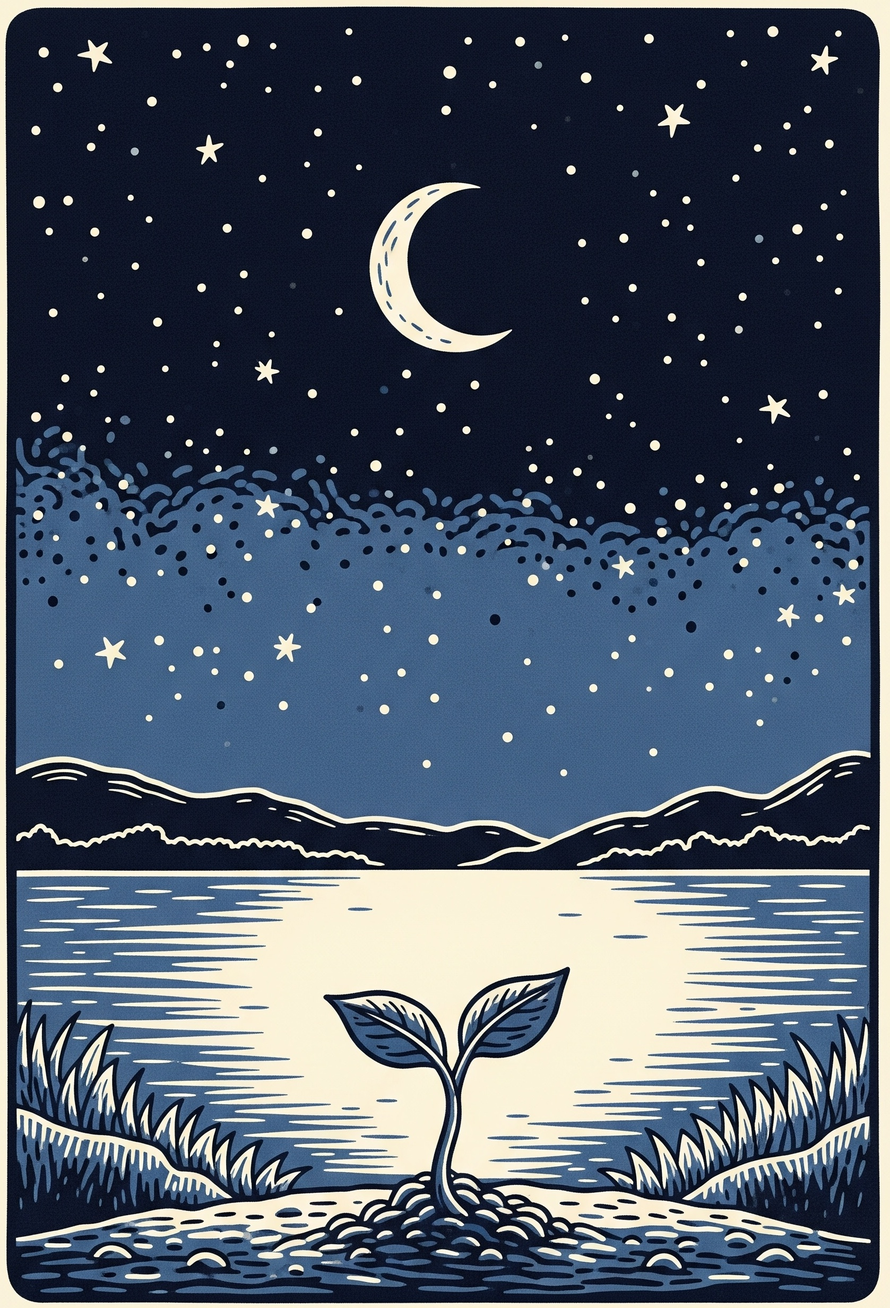
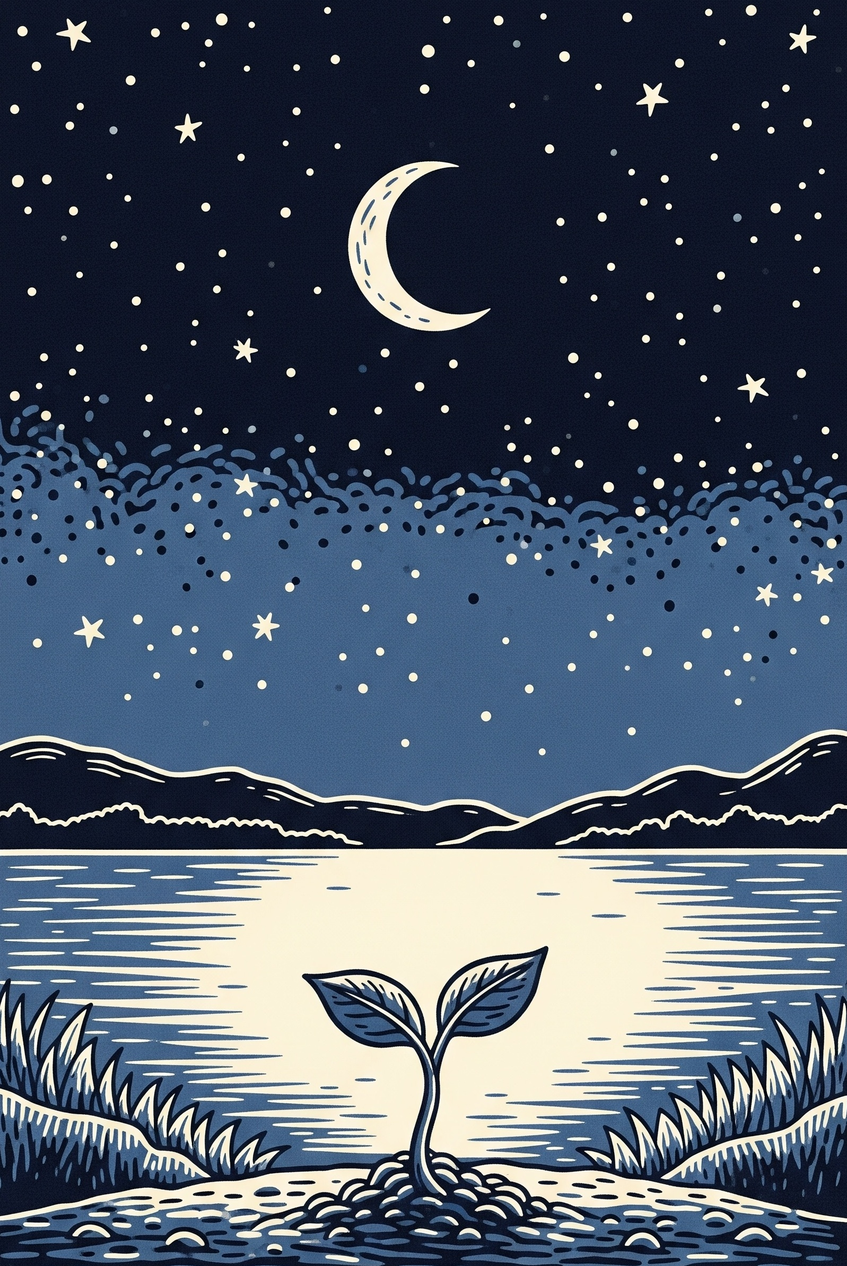
fix: 残っていた白い余白と枠を完全に削除
白い余白が検出された画像を追加トリミング:
- blue-moon.jpg: 35px追加削除
- crescent-moon.jpg: 40px追加削除
- moon-shadow.jpg: 35px追加削除
- moon-smile.jpg: 30px追加削除
- waning-crescent.jpg: 45px追加削除
- moonlight.jpg: 35px黒枠削除

全17枚のタロットカード画像の余白を完全に最適化

diff --git a/final_trim_white_borders.py b/final_trim_white_borders.py
@@ -1,0 +1,80 @@
+#!/usr/bin/env python3
+"""
+残っている白い余白と枠を最終トリミング
+"""
+
+from PIL import Image
+import os
+
+def aggressive_trim(image_path, trim_amount):
+    """
+    画像の周囲から指定ピクセル分を積極的にトリミング
+    """
+    img = Image.open(image_path)
+    width, height = img.size
+    
+    filename = os.path.basename(image_path)
+    print(f"\n処理中: {filename}")
+    print(f"  元のサイズ: {img.size}")
+    
+    # トリミング量（各辺で異なる場合がある）
+    if isinstance(trim_amount, dict):
+        left = trim_amount.get('left', 0)
+        top = trim_amount.get('top', 0)
+        right = width - trim_amount.get('right', 0)
+        bottom = height - trim_amount.get('bottom', 0)
+    else:
+        # 全辺同じ場合
+        left = trim_amount
+        top = trim_amount
+        right = width - trim_amount
+        bottom = height - trim_amount
+    
+    # トリミング
+    if left < right and top < bottom:
+        cropped = img.crop((left, top, right, bottom))
+        
+        # 保存
+        cropped.save(image_path, 'JPEG', quality=95)
+        
+        print(f"  新しいサイズ: {cropped.size}")
+        if isinstance(trim_amount, dict):
+            print(f"  削減: 左={left}px, 上={top}px, 右={width-right}px, 下={height-bottom}px")
+        else:
+            print(f"  削減: {trim_amount}ピクセル（全辺）")
+        return True
+    else:
+        print(f"  画像が小さすぎてトリミングできません")
+        return False
+
+def main():
+    """
+    白い余白が残っている画像を最終トリミング
+    """
+    base_dir = "/Users/shiraitouma/daniel/line-love-edu/public/images/tarot-cards"
+    
+    # 処理対象のファイルと各ファイルごとのトリミング量
+    # より積極的にトリミング
+    target_files = {
+        "blue-moon.jpg": 35,           # 追加で35px
+        "crescent-moon.jpg": 40,       # 追加で40px
+        "moon-shadow.jpg": 35,         # 追加で35px
+        "moon-smile.jpg": 30,          # 追加で30px
+        "waning-crescent.jpg": 45,     # 追加で45px
+        "moonlight.jpg": 35,           # 黒い枠を削除
+    }
+    
+    processed_count = 0
+    
+    for filename, trim_pixels in target_files.items():
+        file_path = os.path.join(base_dir, filename)
+        if os.path.exists(file_path):
+            if aggressive_trim(file_path, trim_pixels):
+                processed_count += 1
+        else:
+            print(f"ファイルが見つかりません: {filename}")
+    
+    print(f"\n完了！ {processed_count}個のファイルを追加トリミングしました。")
+
+if __name__ == "__main__":
+    main()

diff --git a/check_white_borders.py b/check_white_borders.py
@@ -1,0 +1,72 @@
+#!/usr/bin/env python3
+"""
+白い余白が残っている画像を検出
+"""
+
+from PIL import Image
+import numpy as np
+import os
+import glob
+
+def check_white_borders(image_path, threshold=200, edge_pixels=10):
+    """
+    画像の端に白い余白があるかチェック
+    """
+    img = Image.open(image_path)
+    img_array = np.array(img)
+    height, width = img_array.shape[:2]
+    
+    filename = os.path.basename(image_path)
+    
+    # 各辺の端のピクセルをチェック
+    edges = {
+        'top': img_array[:edge_pixels, :],
+        'bottom': img_array[-edge_pixels:, :],
+        'left': img_array[:, :edge_pixels],
+        'right': img_array[:, -edge_pixels:]
+    }
+    
+    white_edges = []
+    for edge_name, edge_array in edges.items():
+        # RGB値の平均が閾値以上なら白い余白と判定
+        mean_color = np.mean(edge_array)
+        if mean_color > threshold:
+            white_edges.append(edge_name)
+    
+    if white_edges:
+        print(f"{filename}: 白い余白あり - {', '.join(white_edges)}")
+        # 各辺の平均色を表示
+        for edge_name in white_edges:
+            edge_array = edges[edge_name]
+            mean_rgb = np.mean(edge_array.reshape(-1, 3), axis=0).astype(int)
+            print(f"  {edge_name}: RGB{tuple(mean_rgb)}")
+        return True
+    
+    return False
+
+def main():
+    base_dir = "/Users/shiraitouma/daniel/line-love-edu/public/images/tarot-cards"
+    
+    # すべてのJPG画像をチェック
+    jpg_files = glob.glob(os.path.join(base_dir, "*.jpg"))
+    
+    print("白い余白をチェック中...\n")
+    
+    files_with_white_borders = []
+    
+    for file_path in sorted(jpg_files):
+        if "original" not in file_path:
+            if check_white_borders(file_path):
+                files_with_white_borders.append(os.path.basename(file_path))
+                print()
+    
+    print("\n=== 結果 ===")
+    if files_with_white_borders:
+        print(f"白い余白がある画像: {len(files_with_white_borders)}枚")
+        for filename in files_with_white_borders:
+            print(f"  - {filename}")
+    else:
+        print("白い余白がある画像はありません")
+
+if __name__ == "__main__":
+    main()
